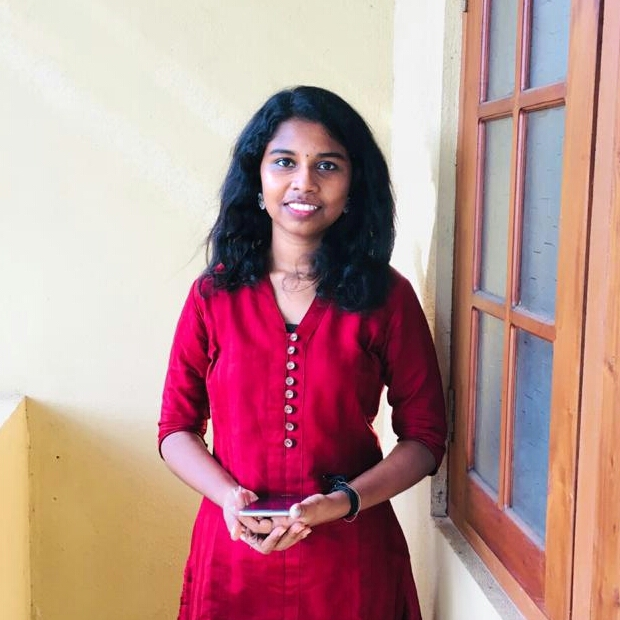
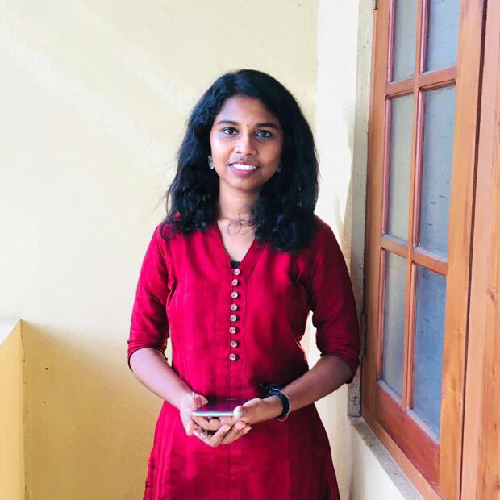
Resize team images

diff --git a/pages/2-b-supporters.php b/pages/2-b-supporters.php
@@ -61,13 +61,11 @@
             <div class="member-img">
               <img src="../media\images\supporter-trash-for-trade\supporter-trash-for-trade-janene.jpg" class="img-fluid" alt="">
               <div class="social">
-
                 <a href="https://www.linkedin.com/in/thepricinglady/"><i class="fa fa-linkedin"></i></a>
               </div>
             </div>
             <div class="member-info">
               <h4>Janene Liston</h4>
-              <br>
               <span>Finance Mentor</span>
               <span>Russia</span>
             </div>
